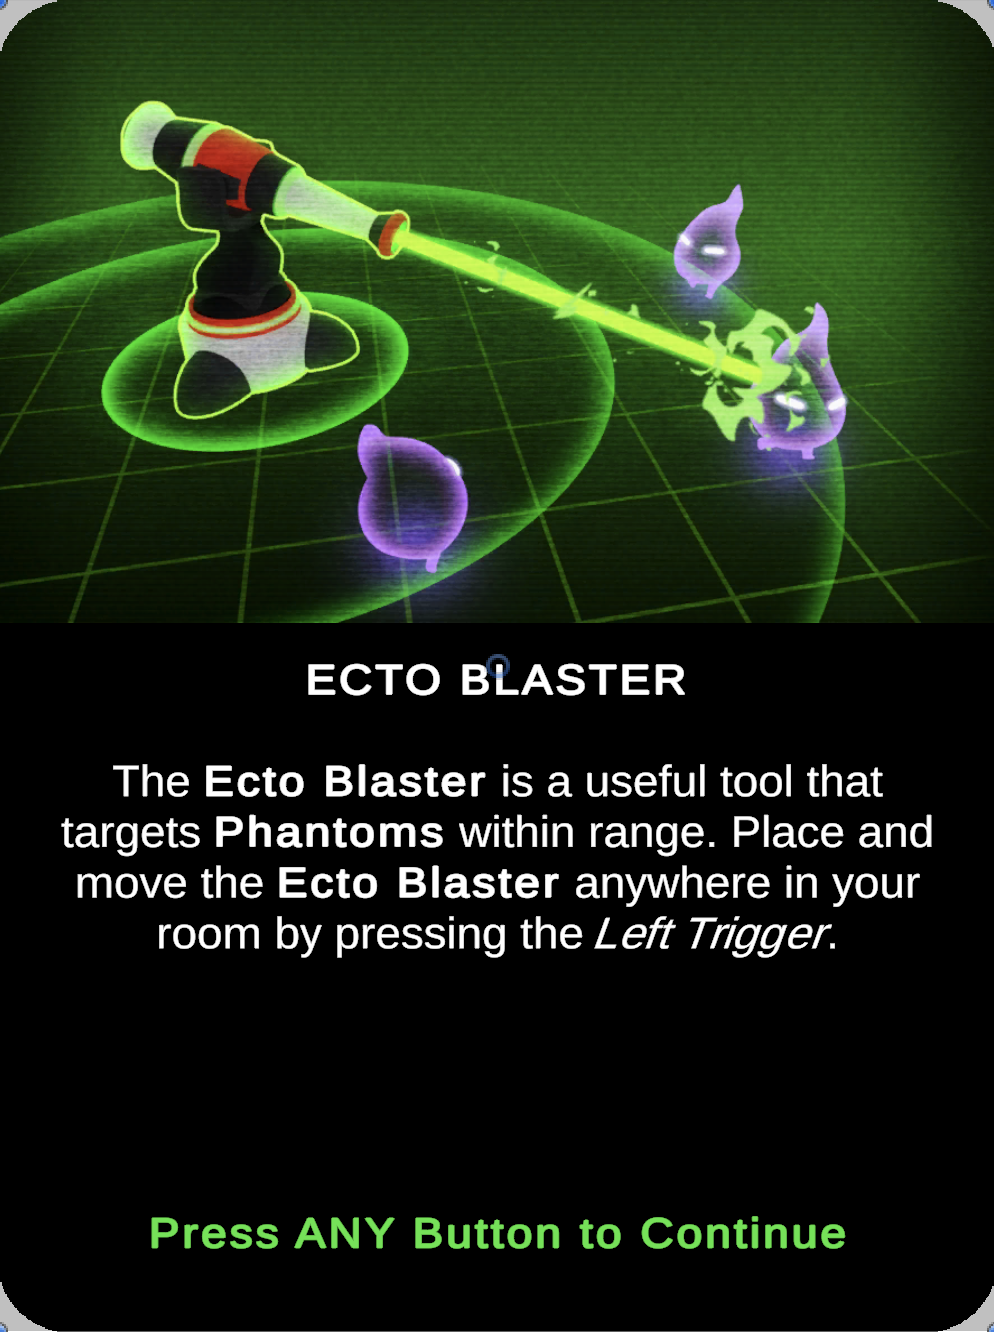
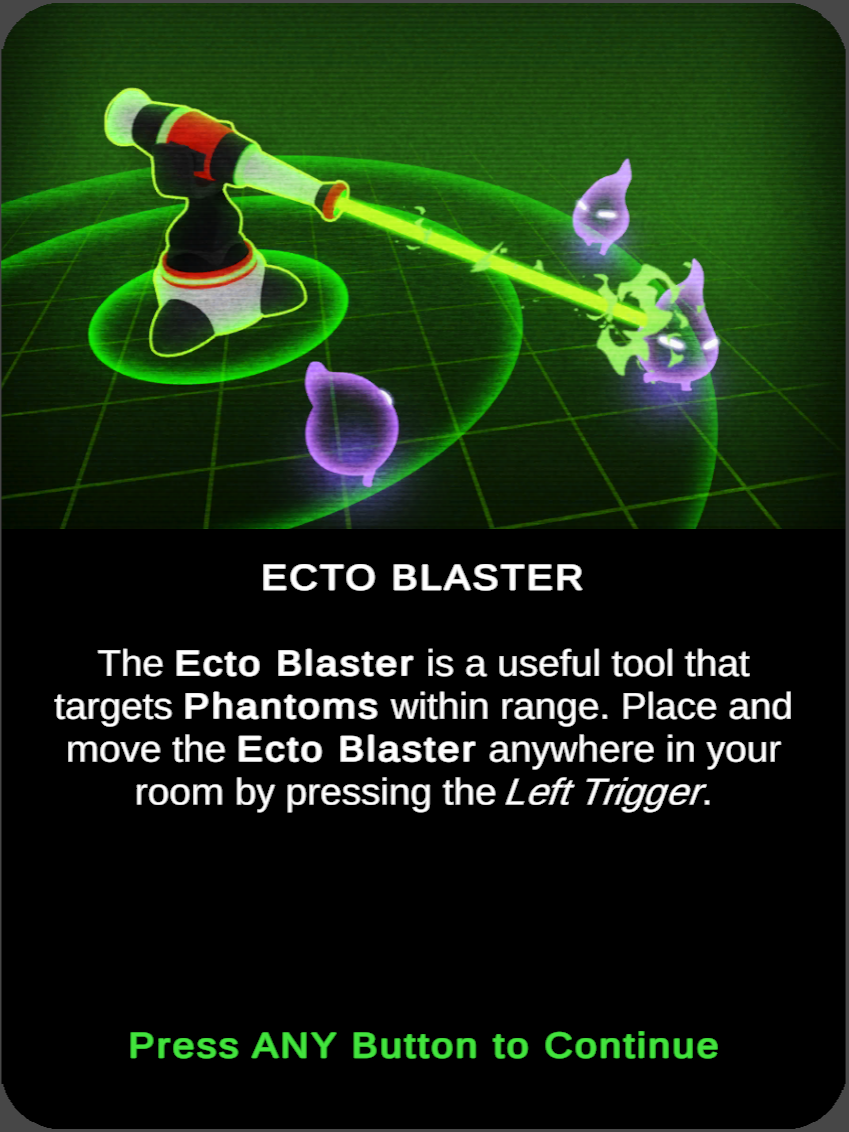
Update media assets
Summary:
Added v64 update media assets
allow-large-files

Reviewed By: PanyaMeta

Differential Revision: D56427298

fbshipit-source-id: 58e8542cba307cafea6c03c770f39ecfb3706cb2

diff --git a/README.md b/README.md
@@ -419,7 +419,7 @@ mesh and scene elements, managed by the **SceneDataLoader** component.
 
 |                     Welcome                     |                     Polterblast                     |                   Goo                   |                  Ecto Blaster                   |                    Phantoms                     |                   Start Game                    |
 | :---------------------------------------------: | :---------------------------------------------: | :---------------------------------------------: | :---------------------------------------------: | :---------------------------------------------: | :---------------------------------------------: |
-| ![Tutorial0](./Media/Tutorial1.PNG 'Tutorial0')| ![Tutorial1](./Media/Tutorial1.PNG 'Tutorial1') | ![Tutorial2](./Media/Tutorial2.PNG 'Tutorial2') | ![Tutorial3](./Media/Tutorial3.PNG 'Tutorial3') | ![Tutorial4](./Media/Tutorial4.PNG 'Tutorial4') | ![Tutorial5](./Media/Tutorial5.PNG 'Tutorial5') |
+| ![Tutorial0](./Media/Tutorial0.PNG 'Tutorial0')| ![Tutorial1](./Media/Tutorial1.PNG 'Tutorial1') | ![Tutorial2](./Media/Tutorial2.PNG 'Tutorial2') | ![Tutorial3](./Media/Tutorial3.PNG 'Tutorial3') | ![Tutorial4](./Media/Tutorial4.PNG 'Tutorial4') | ![Tutorial5](./Media/Tutorial5.PNG 'Tutorial5') |
 
 <br><br>
 
